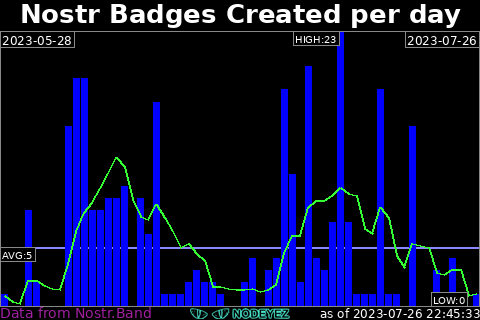
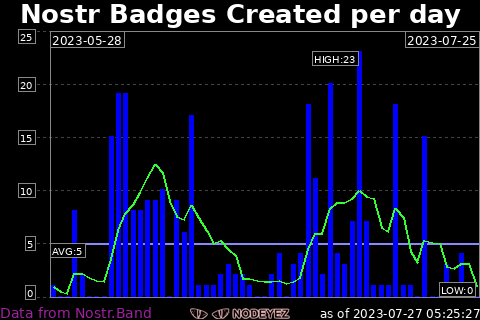
Add grid lines and Y-axis labels to Bar Chart

Changed region(s): [[0.0, 0.0938, 1.0, 1.0], [0.0, 0.0938, 0.25, 0.1562], [0.9688, 0.125, 1.0, 0.1562]]

diff --git a/scripts/vicariouschart.py b/scripts/vicariouschart.py
@@ -5,26 +5,74 @@ import math
 import time
 import vicarioustext
 
+def getShortTextOfNumber(n=0):
+    s=str(n)
+    ul = len(s) // 3
+    ut = ""
+    if ul == 0: return s
+    if ul == 1: ut = "K"
+    if ul == 2: ut = "M"
+    if ul == 3: ut = "B"
+    um = len(s) % 3
+    if um == 0: return "." + str(s[2:4]) + ut
+    if um == 1: return str(s[:1]) + "." + str(s[1:2]) + ut
+    if um == 2: return str(s[:2]) + "." + str(s[2:3]) + ut
+
 def drawBarChart(draw, left=0, top=0, width=480, height=320, theList=[], fieldName=None, 
                  showLabels=False, chartLabel="", grouping=1, valueColor="#ff8888",
                  showAverage=True, averageColor="#8888ff", 
                  movingAverageDuration=0, movingAverageColor="#88ff88", 
-                 movingAverageWidth=3, borderColor="#888888"
+                 movingAverageWidth=3, borderColor="#888888", 
+                 showGridLines=False, gridLineColor="#444444"
                   ):
     low, high, avg, _, _ = getFieldMinMaxAvgValues(theList, fieldName)
     lowx, highx = -1, -1
     lowy, highy = -1, -1
     lowFound, highFound = False, False
     minfloor = .8
-    maxy = top + height - 1
     ma = []
+    # chart area
+    chartLow = low * minfloor
+    chartHigh = high
+    chartLeft = left
+    chartTop = top
+    chartWidth = width
+    chartHeight = height
+    # grid lines needs space for labels
+    gridLegendWidth = 50
+    if showGridLines and (high - low > 0):
+        chartLeft += gridLegendWidth
+        chartWidth -= gridLegendWidth
+        difference = high - low
+        units = int(math.pow(10, len(str(difference)) - 1))
+        chartHigh = int(math.ceil(high / units) * units)
+        chartLow = int(math.floor(low / units) * units)
+        if chartHigh - (units//2) > high: chartHigh -= (units//2)
+        if chartLow + (units//2) < low: chartLow += (units//2)
+        chartDifference = (chartHigh - chartLow)
+        gridSteps = 5
+        gridStepSize = (float(chartDifference) / float(gridSteps))
+        gridSteps += 1
+        for g in range(0, gridSteps):
+            gridStepAmount = int(chartLow + (gridStepSize * g))
+            gridStepY = chartTop + int((1.0-(float(gridStepAmount-chartLow) / float(chartHigh-chartLow))) * chartHeight)
+            # dashed line
+            for gridStepX in range(chartLeft-(gridLegendWidth//2), chartLeft+chartWidth-1, 6):
+                draw.line(xy=[(gridStepX,gridStepY),(gridStepX+2,gridStepY)],fill=ImageColor.getrgb(gridLineColor),width=1)
+            # label it
+            gridlabelpos = "br" if g == 0 else "r"
+            gridlabelpos = "tr" if g == gridSteps - 1 else gridlabelpos
+            gridStepText = getShortTextOfNumber(gridStepAmount)
+            drawLabel(draw, gridStepText, 10, gridlabelpos, (gridLegendWidth*2)//3, gridStepY)
+    # maximum y allowed is the bottom minus 1
+    maxy = chartTop + chartHeight - 1
     # draw average line
     if showAverage:
-        avgy = top if high == 0 else top + int(   (1.0-(float(avg) / float(high))) * height)
-        draw.line(xy=[(left,avgy),(left+width-1,avgy)],fill=ImageColor.getrgb(averageColor),width=2)
-    # process each column from right to left
+        avgy = chartTop if high == 0 else chartTop + int((1.0-(float(avg-chartLow) / float(chartHigh-chartLow))) * chartHeight)
+        draw.line(xy=[(chartLeft,avgy),(chartLeft+chartWidth-1,avgy)],fill=ImageColor.getrgb(averageColor),width=2)
+    # process each column
     l = len(theList) - 1
-    xwidth = width // l
+    xwidth = chartWidth // l
     xhalfwidth = (xwidth // 2) - 1  # for calculating bar width
     if xhalfwidth < 0: xhalfwidth = 0
     index = 0
@@ -33,22 +81,22 @@ def drawBarChart(draw, left=0, top=0, width=480, height=320, theList=[], fieldNa
         item = theList[i]
         # determine x coordinate for column
         px = float(i) / float(l)
-        x = left + xhalfwidth + int((width-xwidth) * px) + 1
+        x = chartLeft + xhalfwidth + int((chartWidth-xwidth) * px) + 1
         # get current value
         if type(item) is dict and fieldName is not None:
             curval = int(item[fieldName])
         else:
             curval = int(item)
         # determine y coordinate for column based on value
-        py = 1.0 if high <= 0 else float(curval-(low*minfloor)) / float(high-(low*minfloor))
-        y = top + int((1.0 - py) * height) - 1
-        y = top if y < top else y
+        py = 1.0 if high <= 0 else float(curval-chartLow) / float(chartHigh-chartLow)
+        y = chartTop + int((1.0 - py) * chartHeight) - 1
+        y = chartTop if y < chartTop else y
         y = maxy if y > maxy else y
-        if curval <= low: # gets right most low value to avoid conflict with avg label:
+        if curval <= low: # gets right most low value to avoid conflict with avg label
             lowx = x
             lowy = y
             lowFound = True
-        if curval >= high and not highFound:
+        if curval >= high and not highFound: # earliest high value gets the label
             highx = x
             highy = y
             highFound = True
@@ -64,35 +112,35 @@ def drawBarChart(draw, left=0, top=0, width=480, height=320, theList=[], fieldNa
             manew = v if len(ma) == 0 else sum(ma) / len(ma)
             if index > 1:
                 if high - low > 0:
-                    maoldy = top+((1.0-(float(maold-(low*minfloor))/float(high-(low*minfloor))))*height)//1
-                    manewy = top+((1.0-(float(manew-(low*minfloor))/float(high-(low*minfloor))))*height)//1
+                    maoldy = chartTop+((1.0-(float(maold-chartLow)/float(chartHigh-chartLow)))*chartHeight)//1
+                    manewy = chartTop+((1.0-(float(manew-chartLow)/float(chartHigh-chartLow)))*chartHeight)//1
                 else:
-                    maoldy = top + (height//2)
+                    maoldy = chartTop + (chartHeight//2)
                     manewy = maoldy
-                if manewy < top + movingAverageWidth: manewy = top + movingAverageWidth
-                if manewy > top + height - movingAverageWidth: manewy = top + height - movingAverageWidth
+                if manewy < chartTop + movingAverageWidth: manewy = chartTop + movingAverageWidth
+                if manewy > chartTop + chartHeight - movingAverageWidth: manewy = chartTop + chartHeight - movingAverageWidth
                 draw.line(xy=[(maoldx,maoldy),(x,manewy)],fill=ImageColor.getrgb(movingAverageColor),width=movingAverageWidth)
             maoldx = x
     # draw box around chart
-    draw.rectangle(xy=[(left,top),(left+width-1,top+height-1)],outline=ImageColor.getrgb(borderColor),width=1)
+    draw.rectangle(xy=[(chartLeft,chartTop),(chartLeft+chartWidth-1,chartTop+chartHeight)],outline=ImageColor.getrgb(borderColor),width=1)
     # draw labels
     if showLabels:
         if highFound and highx > 0 and highy > 0:
-            if highx - 100 < left and len(chartLabel) > 0: highy = highy + 20
-            highpos = "tr" if highx + 150 > left + width else "tl"
+            if highx - 100 < chartLeft and len(chartLabel) > 0: highy = highy + 20
+            highpos = "tr" if highx + 150 > chartLeft + chartWidth else "tl"
             highx = highx + 3 if highpos == "tl" else highx - 3
             drawLabel(draw, f"HIGH:{high}", 10, highpos, highx, highy+2)
         if lowFound and lowx > 0 and lowy > 0:
-            lowpos = "br" if lowx + 150 > left + width else "bl"
+            lowpos = "br" if lowx + 150 > chartLeft + chartWidth else "bl"
             lowx = lowx + 3 if lowpos == "bl" else lowx - 3
             drawLabel(draw, f"LOW:{low}", 10, lowpos, lowx, lowy-2)
         if showAverage:
-            avgpos = "tl" if avgy + 20 < top+height-1 else "bl"
-            avgx = left+2
+            avgpos = "tl" if avgy + 20 < chartTop+chartHeight-1 else "bl"
+            avgx = chartLeft+2
             avgy = avgy - 2 if avgpos == "bl" else avgy + 2
             drawLabel(draw, "AVG:" + str(avg), 10, avgpos, avgx, avgy)
         if len(chartLabel) > 0:
-            drawLabel(draw, chartLabel, 12, "tl", left+2, top+2)
+            drawLabel(draw, chartLabel, 12, "tl", chartLeft+2, chartTop+2)
 
 def drawDotChart(draw, left=0, top=0, width=480, height=320, list=[], fieldName=None,
                  valueColor="#2f3fc5", valueRadius=3,

diff --git a/scripts/nostrbandstats.py b/scripts/nostrbandstats.py
@@ -54,7 +54,7 @@ class NostrBandStatsPanel(NodeyezPanel):
         # set date range for charts based on data
         activeRelays, _ = vicariouschart.getNestedField(self.transformStats, "daily.datasets.active_relays")
         self.dateBegin = activeRelays[0]["d"]
-        self.dateEnd = activeRelays[-1]["d"]
+        self.dateEnd = activeRelays[-2]["d"] # second to last to only include full day
 
     def transformData(self):
         # make a copy to work with
@@ -75,26 +75,31 @@ class NostrBandStatsPanel(NodeyezPanel):
                             if "c" in o:
                                 listk.append(o["c"])
                                 valueAdded = True
-                    if valueAdded: datasets[flatk] = listk
+                    if valueAdded: 
+                        listk.pop() # remove last entry as its a partial day
+                        datasets[flatk] = listk
         self.transformStats = tstats
 
     def renderChart(self, pageSuffix, headerText, baseKey, colorIndex):
         attributionSize = int(self.height * 14/320)
         labelSize = int(self.height * 12/320)
+        showGridLines = True
+        gridLegendWidth = 0
+        if showGridLines: gridLegendWidth = 50
         self.headerText = headerText
         self.pageSuffix = pageSuffix
         super().startImage()
         nestedField = f"daily.datasets.{baseKey}_flat"
         chartStats, _ = vicariouschart.getNestedField(self.transformStats, nestedField)
         vicariouschart.drawBarChart(draw=self.draw, left=0, top=self.getInsetTop(), 
-            width=self.width, height=self.getInsetHeight(), 
+            width=self.width, height=self.getInsetHeight()-10, 
             theList=chartStats, fieldName=None, 
             showLabels=True, chartLabel="", grouping=1, 
             valueColor=self.graphDataColors[colorIndex], 
             showAverage=True, averageColor=self.graphAverageColor, 
             movingAverageDuration=7, movingAverageColor="#33ff33", movingAverageWidth=2,
-            borderColor=self.graphBorderColor)
-        vicariouschart.drawLabel(self.draw, self.dateBegin, labelSize, "tl", 0 + 2, self.getInsetTop()+2 )
+            borderColor=self.graphBorderColor, showGridLines=showGridLines)
+        vicariouschart.drawLabel(self.draw, self.dateBegin, labelSize, "tl", gridLegendWidth + 0 + 2, self.getInsetTop()+2 )
         vicariouschart.drawLabel(self.draw, self.dateEnd, labelSize, "tr", self.width - 3, self.getInsetTop()+2)
         vicarioustext.drawbottomlefttext(self.draw, self.attributionLine, attributionSize, 0, self.height, ImageColor.getrgb(self.attributionColor))
         super().finishImage()
